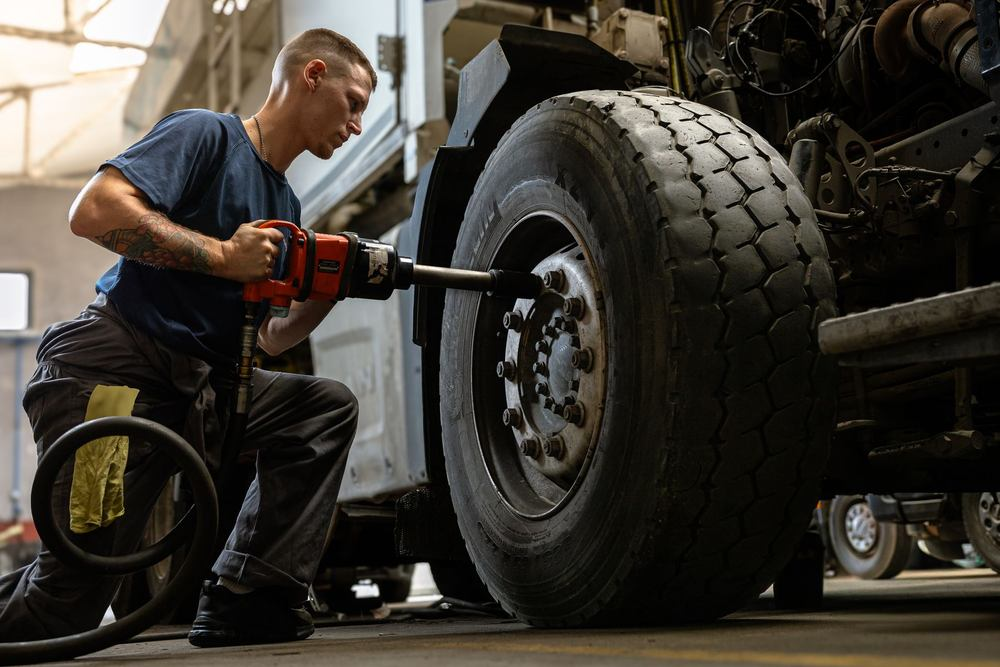
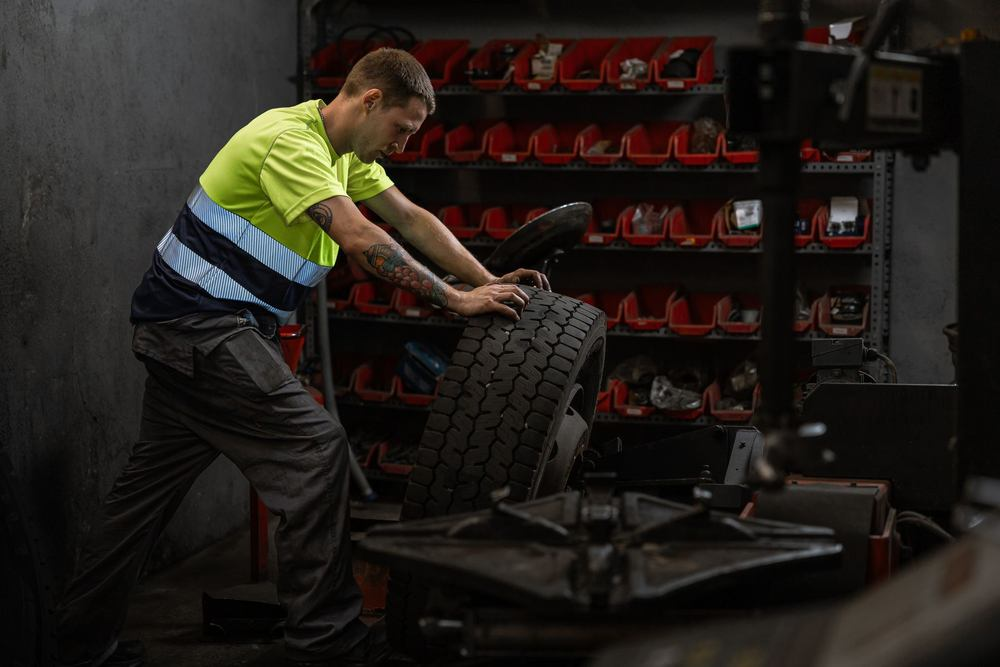
Twitrans 90: se quita la sección Tienda y sus fotos de neumáticos pasan al servicio de neumáticos
Claude-Session: https://claude.ai/code/session_018YYMSpeCp4pdi23FUSnzbq

diff --git a/twitrans90/web/index.html b/twitrans90/web/index.html
@@ -637,7 +637,7 @@ footer .credit a:hover { color: var(--accent-on-deep); }
 <div class="menu-scrim" id="menuScrim"></div>
 <aside class="menu" id="menu" aria-label="Menú de secciones" aria-hidden="true">
   <div class="menu-top"><span class="mono">Menú</span><button class="burger x" id="menuClose" type="button" aria-label="Cerrar menú"><span></span><span></span></button></div>
-  <ul><li><a href="#inicio" data-sec="inicio">Inicio</a></li><li><a href="#quienes" data-sec="quienes">Quiénes somos</a></li><li><a href="#servicios" data-sec="servicios">Servicios</a></li><li><a href="#como" data-sec="como">Cómo trabajamos</a></li><li><a href="#antes" data-sec="antes">Antes y después</a></li><li><a href="#tienda" data-sec="tienda">Tienda</a></li><li><a href="#faq" data-sec="faq">Preguntas frecuentes</a></li><li><a href="#donde" data-sec="donde">Horarios y dónde estamos</a></li><li><a href="#contacto" data-sec="contacto">Contacto</a></li></ul>
+  <ul><li><a href="#inicio" data-sec="inicio">Inicio</a></li><li><a href="#quienes" data-sec="quienes">Quiénes somos</a></li><li><a href="#servicios" data-sec="servicios">Servicios</a></li><li><a href="#como" data-sec="como">Cómo trabajamos</a></li><li><a href="#antes" data-sec="antes">Antes y después</a></li><li><a href="#faq" data-sec="faq">Preguntas frecuentes</a></li><li><a href="#donde" data-sec="donde">Horarios y dónde estamos</a></li><li><a href="#contacto" data-sec="contacto">Contacto</a></li></ul>
   <a class="btn btn-accent menu-cta" href="#contacto">Pedir presupuesto</a>
 </aside>
 
@@ -711,7 +711,7 @@ footer .credit a:hover { color: var(--accent-on-deep); }
           </div>
         </article>
         <article class="svc"><span class="idx">S3</span>
-          <figure class="slider svc-photo" aria-label="Fotos del servicio"><div class="slides"><img src="media/serv-neumaticos-01.jpg" alt="Montaje de una rueda de camión con pistola neumática" width="1000" height="667" decoding="async" class="on"></div></figure>
+          <figure class="slider svc-photo" data-slider data-delay="2300" data-click="0" aria-label="Fotos del servicio"><div class="slides"><img src="media/serv-neumaticos-01.jpg" alt="Mecánico de Twitrans 90 montando un neumático en la máquina" width="1000" height="667" decoding="async" class="on"><img src="media/serv-neumaticos-02.jpg" alt="Neumático de camión en la máquina de montaje del taller" width="1000" height="667" decoding="async" loading="lazy"></div></figure>
           <div class="ic"><svg viewBox="0 0 56 56" fill="none" stroke="currentColor" stroke-width="2.2" stroke-linecap="round"><g class="i-tyre"><circle cx="28" cy="28" r="20"/><circle cx="28" cy="28" r="11" stroke="var(--accent)"/><path d="M28 17v-4M28 43v4M17 28h-4M43 28h4M20 20l-3-3M39 39l3 3M36 20l3-3M17 39l3-3"/></g><circle cx="28" cy="28" r="2.5" fill="currentColor"/></svg></div>
           <h3>Cambio y reparación de neumáticos</h3>
           <p class="spec mono">Montaje en el día bajo cita o stock</p>
@@ -807,27 +807,6 @@ footer .credit a:hover { color: var(--accent-on-deep); }
         <h2 style="margin-top:16px">Golpes fuera. Tu imagen, intacta.</h2>
         <p class="lead" style="margin-top:20px">Desde una abolladura hasta la pintura completa con los colores de tu empresa. Gestionamos el parte con tu aseguradora.</p>
       </div>
-    </div>
-  </section>
-
-  <section id="tienda">
-    <div class="wrap">
-      <div class="head"><p class="eyebrow">Tienda</p><h2>Lo que necesitas, listo para llevar.</h2><p class="lead">Consulta disponibilidad y pide presupuesto.</p></div>
-      <div class="shop">
-        <article class="item"><div class="pic has-photo"><figure class="slider shop-photo" data-slider data-delay="2300" data-click="0" aria-label="Fotos de Vehículos industriales de ocasión"><div class="slides"><img src="media/tienda-ocasion-01.jpg" alt="Furgoneta de ocasión revisada en el taller" width="1000" height="667" decoding="async" class="on"><img src="media/tienda-ocasion-02.jpg" alt="Furgoneta blanca de ocasión en el taller de Twitrans 90" width="1000" height="667" decoding="async" loading="lazy"></div></figure></div>
-          <div class="body"><h3>Vehículos industriales de ocasión</h3><p>Camiones y maquinaria revisados en nuestro taller. Revisión mecánica pre-entrega completa incluida. Venta a toda España.</p><div class="foot"><span class="price mono">Según vehículo</span><a class="link" href="#contacto">Consultar</a></div></div></article>
-        <article class="item"><div class="pic has-photo"><figure class="slider shop-photo" data-slider data-delay="2300" data-click="0" aria-label="Fotos de Neumáticos industriales"><div class="slides"><img src="media/tienda-neumaticos-01.jpg" alt="Mecánico de Twitrans 90 montando un neumático en la máquina" width="1000" height="667" decoding="async" class="on"><img src="media/tienda-neumaticos-02.jpg" alt="Neumático de camión en la máquina de montaje del taller" width="1000" height="667" decoding="async" loading="lazy"></div></figure></div>
-          <div class="body"><h3>Neumáticos industriales</h3><p>Suministro y montaje para camiones y furgonetas. Montaje en el día bajo cita o stock.</p><div class="foot"><span class="price mono">Según marca y medida</span><a class="link" href="#contacto">Consultar</a></div></div></article>
-        <article class="item"><div class="pic has-photo"><figure class="slider shop-photo" aria-label="Fotos de Mangueras, racores y accesorios"><div class="slides"><img src="media/tienda-mangueras-01.jpg" alt="Mangueras hidráulicas con racores y protección en espiral" width="1000" height="667" decoding="async" class="on"></div></figure></div>
-          <div class="body"><h3>Mangueras, racores y accesorios</h3><p>Suministros hidráulicos y neumáticos para camiones, grúas y maquinaria. Variedad de medidas.</p><div class="foot"><span class="price mono">Según pieza y medida</span><a class="link" href="#contacto">Consultar</a></div></div></article>
-      </div>
-      <details class="cond"><summary>Condiciones de venta</summary>
-        <div>
-          <p><b>Devolución:</b> 14 días. Los gastos de devolución los paga el cliente.</p>
-          <p><b>No admiten devolución:</b> mangueras hidráulicas fabricadas a medida, piezas encargadas bajo pedido específico, suministros instalados o usados, y la mano de obra de reparación y los trabajos de plancha y pintura.</p>
-          <p><b>Garantía:</b> la legal aplicable según normativa para recambios, componentes y mano de obra.</p>
-        </div>
-      </details>
     </div>
   </section>
 

diff --git a/twitrans90/web/build.py b/twitrans90/web/build.py
@@ -85,6 +85,9 @@ if(get()==='si')load();
 # 4c. la sección «Productos» se quita (y su enlace del menú)
 cut(r'  <section id="productos".*?</section>\n\n')
 cut(r'<li><a href="#productos" data-sec="productos">Productos</a></li>')
+# 4d. la sección «Tienda» se quita (y su enlace del menú)
+cut(r'  <section id="tienda".*?</section>\n\n')
+cut(r'<li><a href="#tienda" data-sec="tienda">Tienda</a></li>')
 # 5. fotografías y vídeo reales del cliente (carpeta media/)
 VIDEO='<div class="scene hero-video"><video id="heroVideo" src="media/video-home.mp4" poster="media/video-home-poster.jpg" autoplay muted loop playsinline preload="metadata" aria-label="Taller de Twitrans 90 en Ripollet: vídeo de presentación"></video></div>'
 cut(r'<div class="scene".*?(?=\s*<div class="hero-text">)', VIDEO)
@@ -102,7 +105,7 @@ TEAM='<div class="photo team">'+slider('isa',ISA,caption='Isa',delay=3800,label=
 cut(r'<div class="photo">.*?(?=\s*<div class="about-body">)', TEAM)
 SVC={1:('reparacion',['Mecánico de Twitrans 90 reparando el motor de un vehículo industrial','Manos de un mecánico apretando con una herramienta en un motor','Nave del taller de Twitrans 90 en Ripollet','Juego de llaves de vaso abierto en el taller']),
      2:('plancha',['Furgoneta preparada con papel de enmascarar en la cabina de pintura','Pintando una furgoneta en el taller de Twitrans 90']),
-     3:('neumaticos',['Montaje de una rueda de camión con pistola neumática']),
+     3:('neumaticos',['Mecánico de Twitrans 90 montando un neumático en la máquina','Neumático de camión en la máquina de montaje del taller']),
      4:('movil',['Furgoneta del taller móvil de Twitrans 90','Interior de la furgoneta taller, con las herramientas organizadas','Taller profesional móvil: compresor y herramientas dentro de la furgoneta']),
      5:('suministros',['Mangueras hidráulicas con racores y protección en espiral']),
      6:('compraventa',['Camión de ocasión revisado en el taller de Twitrans 90'])}
@@ -110,13 +113,6 @@ for n,(name,alts) in SVC.items():
     old='<article class="svc"><span class="idx">S%d</span>'%n
     assert old in s, old
     s=s.replace(old, old+'\n          '+slider('serv-'+name,alts,cls='svc-photo',delay=3400+n*250,click=False,label='Fotos del servicio'),1)
-TIENDA={'Vehículos industriales de ocasión':('tienda-ocasion',['Furgoneta de ocasión revisada en el taller','Furgoneta blanca de ocasión en el taller de Twitrans 90']),
-        'Mangueras, racores y accesorios':('tienda-mangueras',['Mangueras hidráulicas con racores y protección en espiral']),
-        'Neumáticos industriales':('tienda-neumaticos',['Mecánico de Twitrans 90 montando un neumático en la máquina','Neumático de camión en la máquina de montaje del taller'])}
-for titulo,(pref,alts) in TIENDA.items():
-    pat=r'<div class="pic">(?:(?!</div>).)*</div>(\s*<div class="body"><h3>'+re.escape(titulo)+')'
-    assert re.search(pat,s,re.S),titulo
-    s=re.sub(pat,lambda m:'<div class="pic has-photo">'+slider(pref,alts,cls='shop-photo',delay=3600,click=False,label='Fotos de '+titulo)+'</div>'+m.group(1),s,count=1,flags=re.S)
 # 3) las tuercas que giran van al final de la página, cerrando
 m=re.search(r'\n  <div class="bolt" id="bolt" aria-hidden="true">.*?\n  </div>\n',s,re.S)
 assert m,'bolt'
